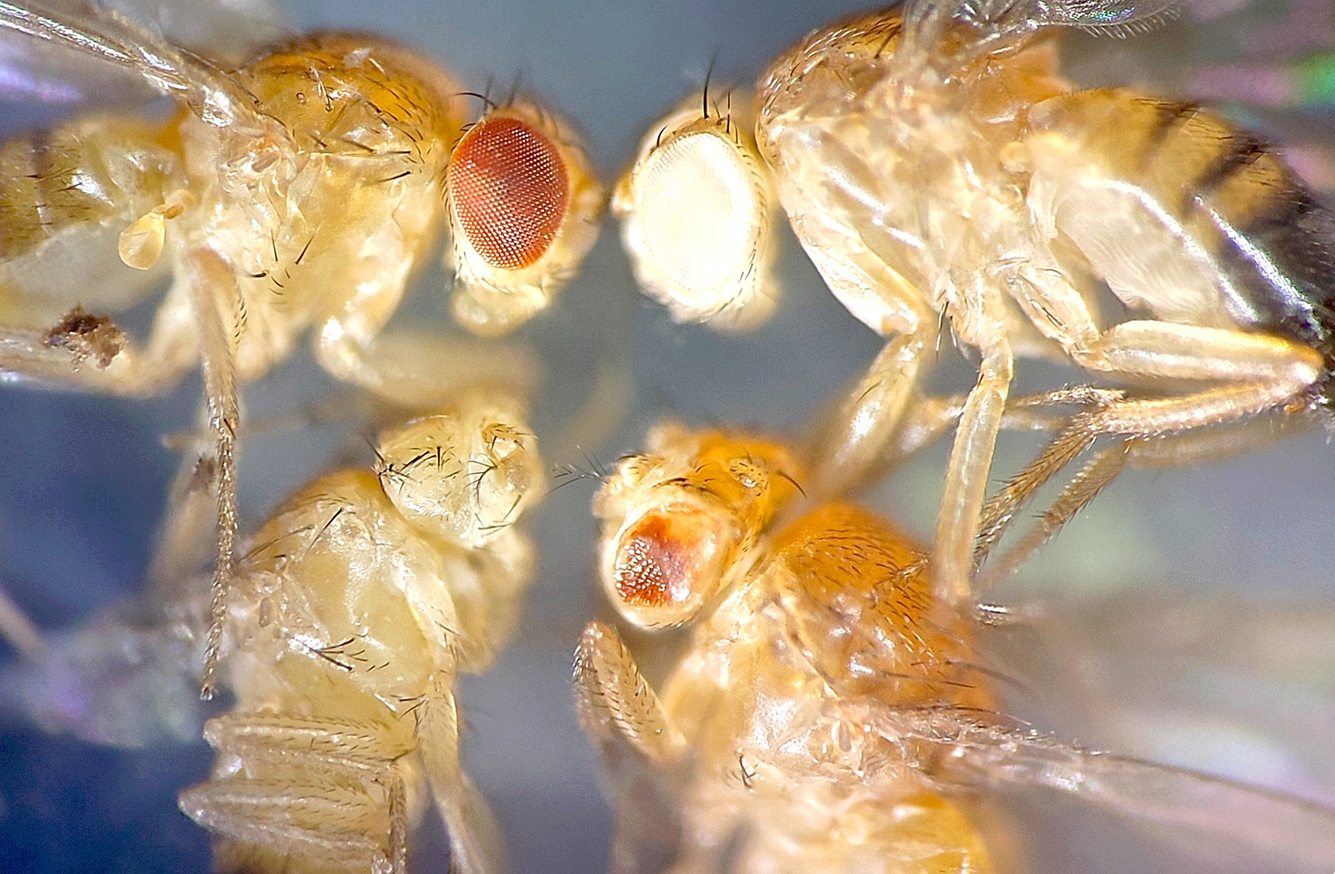
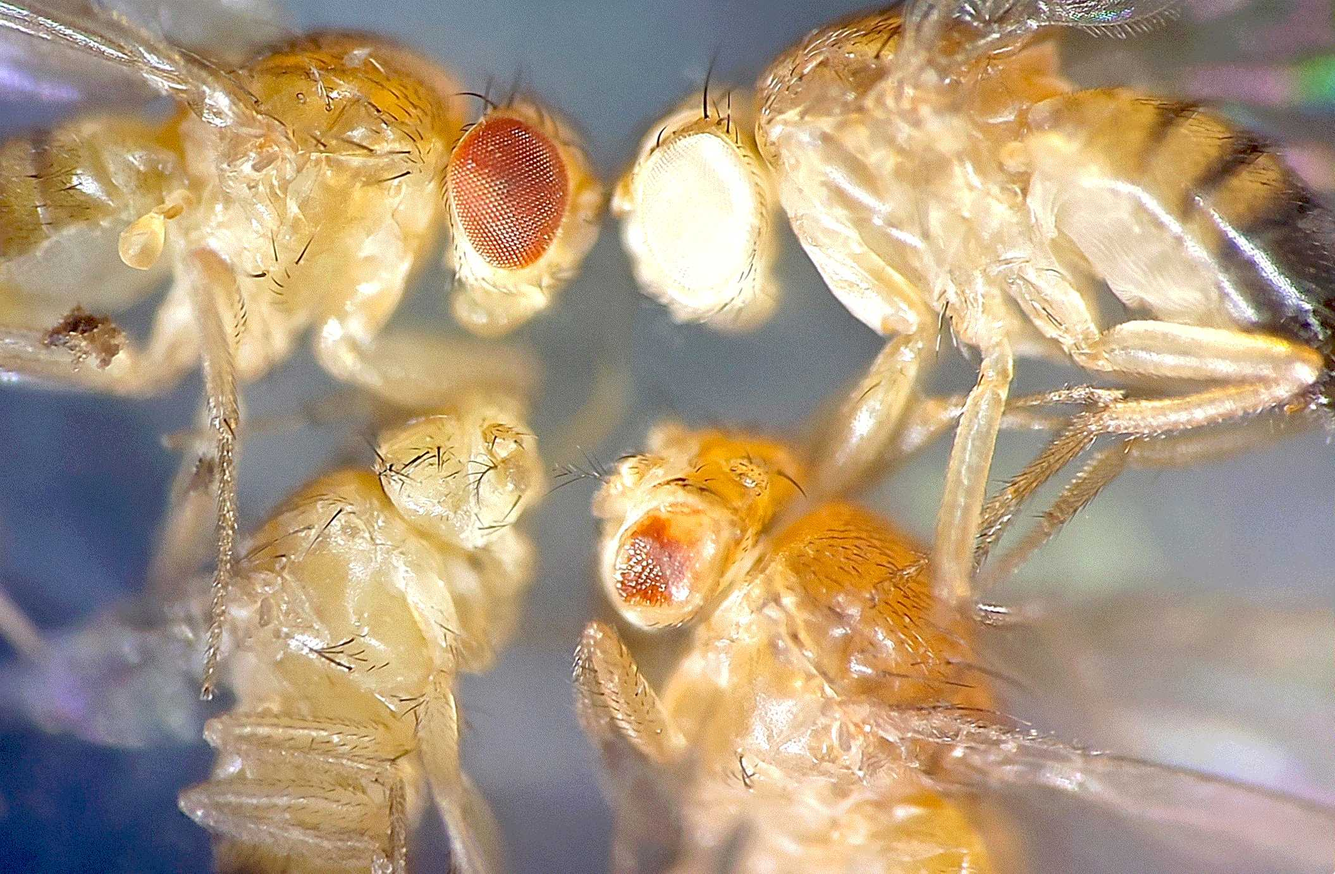
Minor changes.

diff --git a/templates/index.html b/templates/index.html
@@ -140,7 +140,8 @@
         <div class="container-fluid">
             <div class="row">
                 <div class="col-md-6">
-                    <img src="../static/images/left.gif" alt="">
+                    <img src="../static/images/left.png
+" alt="">
                 </div>
                 <div class="col-md-6">
                     <div class="right-content">
@@ -180,7 +181,7 @@
                     </div>
                 </div>
                 <div class="col-md-6">
-                    <img src="../static/images/right.gif" alt="">
+                    <img src="../static/images/right.png" alt="">
                 </div>
             </div>
         </div>

diff --git a/templates/wings/bristles/w_bristles.html b/templates/wings/bristles/w_bristles.html
@@ -41,7 +41,7 @@
         <div class="container-fluid">
             <div class="row">
                 <div class="col-md-12">
-                    <img src="static/images/bristles.png" alt="">
+                    <img src="static/images/bristles.jpg" alt="">
                     <div class="down-content">
                         <p>Bristles on the Drosophila wing are not just decorative structures; they serve several
                             important functions in the fly's life cycle. Bristles on the wing margin help the fly to

diff --git a/templates/wings/shape/w_shape.html b/templates/wings/shape/w_shape.html
@@ -44,7 +44,7 @@
         <div class="container-fluid">
             <div class="row">
                 <div class="col-md-12">
-                    <img src="static/images/class.png" alt="">
+                    <img src="static/images/class.jpg" alt="">
                     <div class="down-content">
                         <p>The mutation detection and classification process is powered by a combination of advanced
                             image processing algorithms and machine learning models, ensuring high accuracy and

diff --git a/templates/wings/dimensions/w_dimen.html b/templates/wings/dimensions/w_dimen.html
@@ -44,7 +44,7 @@
         <div class="container-fluid">
             <div class="row">
                 <div class="col-md-12">
-                    <img src="static/images/wing1.png" alt="">
+                    <img src="static/images/wing1.jpg" alt="">
                     <div class="down-content">
                         <p>These features provide a visual representation of the activity of conserved signaling
                             pathways that are relevant to human health and disease. By analyzing the structure of

diff --git a/static/css/templatemo-style.css b/static/css/templatemo-style.css
@@ -112,7 +112,7 @@ section {
 }
 
 .main-banner .banner-content {
-    background-image: url(../images/main-banner.gif);
+    background-image: url(../images/main-banner.jpg);
     background-size: cover;
     background-repeat: no-repeat;
 }

diff --git a/Droso/views.py b/Droso/views.py
@@ -341,7 +341,7 @@ def wingdimen2(request):
                         {'head': 'Makkhimeter | wing', 'user_name': request.user.username.upper()})
 
     return render(request, 'wings/dimensions/w_dimen2.html',
-                  {'head': 'Wing | Dimensions', 'img_path': '../static/images/perfect.png',
+                  {'head': 'Wing | Dimensions', 'img_path': '../static/images/perfect.jpg',
                    'img_name': 'Expected Input Image ', 'user_name': request.user.username.upper()})
 
 
@@ -757,7 +757,7 @@ def wingshape2(request):
         return redirect("/out")
 
     return render(request, 'wings/shape/w_shape2.html',
-                  {'head': 'Wing | Shape', 'img_path': '../static/images/perfect.png',
+                  {'head': 'Wing | Shape', 'img_path': '../static/images/perfect.jpg',
                    'img_name': 'Expected Input Image', 'user_name': request.user.username.upper()})
 
 
@@ -919,7 +919,7 @@ def wingbristles2(request):
                         {'head': 'Bristles | Counter', 'img': crop_img, 'user_name': request.user.username.upper()})
 
     return render(request, 'wings/bristles/w_bristles2.html',
-                  {'head': 'Wing | Bristles', 'img_path': '../static/images/perfect.png',
+                  {'head': 'Wing | Bristles', 'img_path': '../static/images/perfect.jpg',
                    'img_name': 'Expected Input Image ', 'user_name': request.user.username.upper()})
 
 

diff --git a/compress.py b/compress.py
@@ -1,0 +1,19 @@
+from PIL import Image, ImageSequence
+
+# Open the GIF file
+gif = Image.open("G:\Projects\D.M\static\images\left.gif")
+
+# Create a new sequence of GIF frames
+new_frames = []
+
+# Iterate over each frame in the GIF
+for frame in ImageSequence.Iterator(gif):
+    # Reduce the colors in the frame
+    frame = frame.quantize(colors=256)
+
+    # Add the frame to the new sequence
+    new_frames.append(frame)
+
+# Create a new GIF image from the compressed frames
+new_gif = new_frames[0]
+new_gif.save("compressed.gif", save_all=True, append_images=new_frames[1:], optimize=True, duration=100, loop=0)
